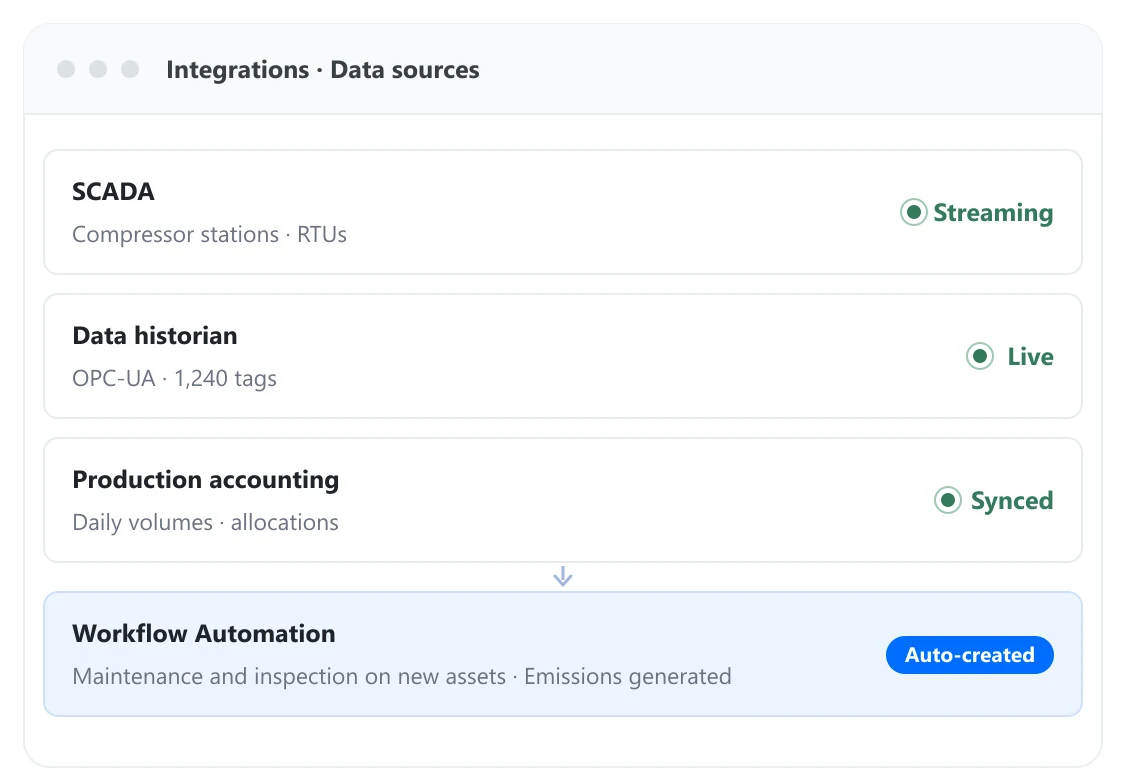
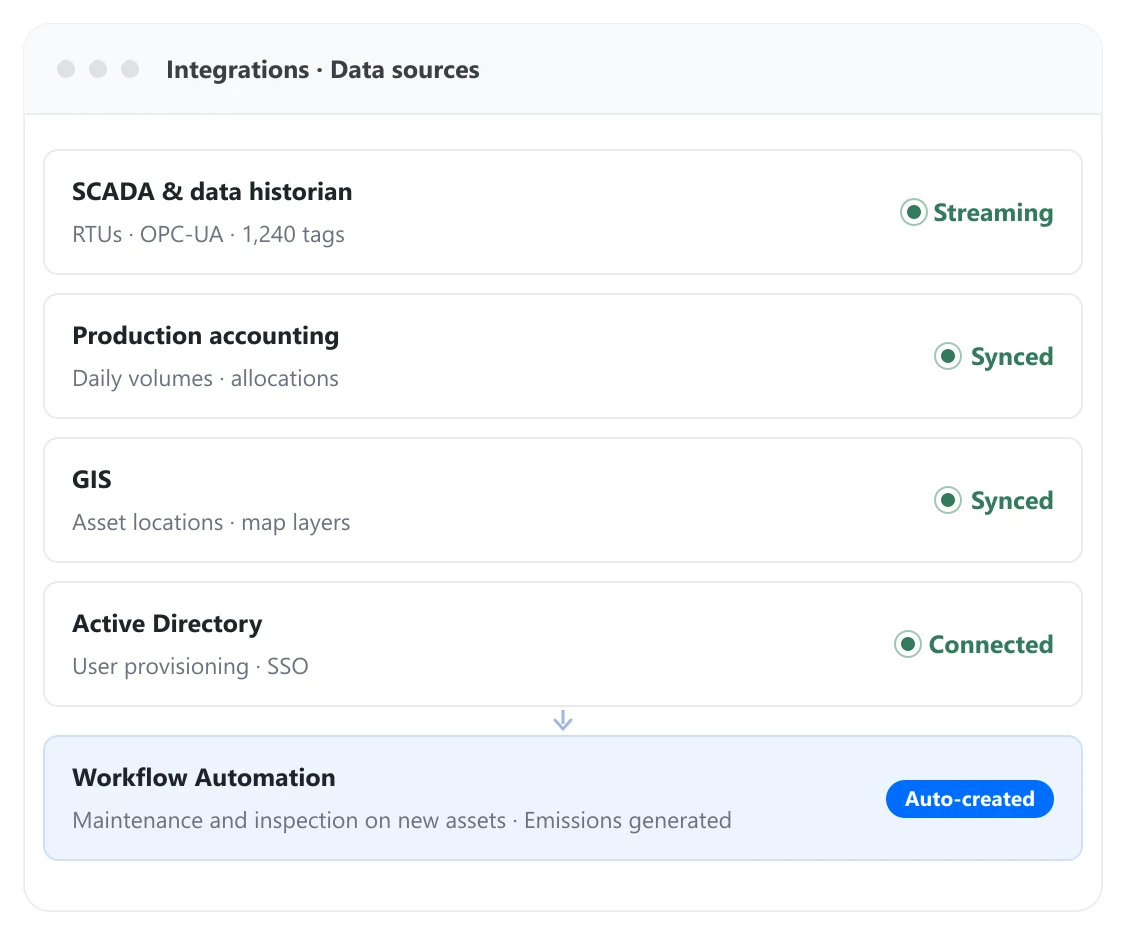
Home: finding panel, interoperability headline, price cards
- "Follow one finding" becomes a white switcher panel after the Sandstone
  services panel: the statement and four steps in a light card on the left,
  the step screens on the right; clicking or pointing at a step swaps them
- Integrations: "Data interoperability with enterprise architecture."; the
  panel combines SCADA and the data historian and adds GIS and Active
  Directory (provisioning and SSO), with the card text to match
- Pricing teaser: tall white price cards on a light gray section, prices
  bold in the top left, two-sentence lines, and a shorter three-sentence
  title that carries what every plan includes

diff --git a/src/static/css/main.css b/src/static/css/main.css
@@ -1484,12 +1484,6 @@ main { background: var(--color-bg); overflow: hidden; overflow: clip; }  /* clip
   .bento-card-text { padding: var(--space-4); }
   .bento-card-shot { border-top: 0; border-left: 1px solid var(--color-border); padding: var(--space-4); }
 }
-/* Steps (home "Follow one finding"): a numbered kicker over each card's title, and drawn panels on their own white
-   canvas, padded like .bento-card-shot */
-.bento-kicker { margin: 0 0 var(--space-1); font-size: var(--text-small); font-weight: 600; letter-spacing: 0.08em; text-transform: uppercase; color: var(--color-accent-text); }
-.bento-card-media--shot { padding: var(--space-3); object-fit: contain; }
-@media (min-width: 48rem) { .bento-card-media--shot { height: 22rem; } }  /* side by side, both panels get one height */
-.bento--steps .bento-card-shot { max-height: 26rem; object-fit: contain; }  /* near the panels' own size, not stretched to the card */
 
 /* Feature runs (/ldar): each point is one paragraph, a bold title running into a softer explanation,
    under a short amber tick. --stack puts them in one column. */
@@ -1552,6 +1546,17 @@ main { background: var(--color-bg); overflow: hidden; overflow: clip; }  /* clip
 .stat-row--stack { grid-template-columns: minmax(0, 1fr); gap: 0; margin: 0; }
 .stat-row--stack li { padding: var(--space-3) 0; border-left: 0; border-top: 1px solid var(--color-border); }
 .stat-row--stack li:first-child { padding-top: 0; border-top: 0; }
+/* Price cards (home pricing teaser): tall white cards on a light gray section, the price large in the top left
+   with its term small in the top right, and the plan name and its line at the foot */
+.price-cards { list-style: none; margin: 0 0 var(--space-4); padding: 0; display: grid; gap: var(--space-2); }
+@media (min-width: 48rem) { .price-cards { grid-template-columns: repeat(3, minmax(0, 1fr)); } }
+.price-card { display: flex; flex-direction: column; min-height: 18rem; padding: var(--space-4) var(--space-4) var(--space-4); border-radius: var(--radius-lg); background: var(--color-bg); }
+.price-card-top { display: flex; align-items: baseline; justify-content: space-between; gap: var(--space-2); margin-bottom: auto; padding-bottom: var(--space-5); }
+.price-card .price-card-figure { margin: 0; font-size: var(--text-h3); font-weight: 700; line-height: 1; letter-spacing: -0.02em; color: var(--color-dark); }
+.price-card .price-card-term { margin: 0; font-size: var(--text-small); color: var(--color-muted); text-align: right; }
+.price-card-name { margin: 0 0 var(--space-1); font-size: var(--text-h4); }
+.price-card p:last-child { margin: 0; line-height: 1.5; color: var(--color-muted); }
+@media (min-width: 48rem) { .price-card p:last-child { min-height: calc(3 * 1.5em); } }  /* side by side, every line gets three lines' room so the plan names align */
 
 /* Story panel (/ldar): a client quote on a navy card beside the numbers it stands behind */
 .story { display: grid; gap: var(--space-4); }
@@ -1662,6 +1667,30 @@ button.tour-step:hover { background: var(--color-section-alt); }
 .stepper:not(.is-ready) .stepper-media, .stepper:not(.is-ready) .stepper-item::before { transition: none !important; }  /* none on first paint */
 .stepper.is-live .stepper-media.is-active { opacity: 1; visibility: visible; transform: none; transition: opacity 0.4s var(--ease), transform 0.6s var(--ease), visibility 0s; }
 .stepper-media img { max-width: 34rem; height: auto; }
+/* Panel (home "Follow one finding", after the Sandstone services panel): one white rounded panel with a hairline
+   border, a light card standing inside its left edge with the statement on top, the steps as a hairline list in
+   the middle (the open one dark, the rest muted) and the open step's line at its foot, and the stage on white to
+   its right. Without JS the lines sit under their steps and every screen shows. */
+.stepper--panel { position: relative; isolation: isolate; gap: var(--space-2); margin-top: 0; padding: var(--space-2); overflow: hidden; border: 1px solid var(--color-border); border-radius: var(--radius-lg); background: var(--color-bg); }
+.stepper--panel .stepper-stage { padding: var(--space-4) var(--space-2); border: 0; border-radius: 0; background: none; }
+.stepper--panel .stepper-media img { max-width: 32rem; }
+.stepper-card { position: relative; display: flex; flex-direction: column; gap: var(--space-4); padding: var(--space-4) var(--space-3); border-radius: var(--radius); background: var(--color-section-alt); }
+.stepper-statement { margin: 0; font-size: var(--text-h3); font-weight: 700; line-height: 1.2; letter-spacing: -0.015em; color: var(--color-dark); }
+.stepper-statement span { font-weight: 600; color: var(--color-muted); }
+.stepper--panel .stepper-list { margin-top: auto; border-top: 1px solid var(--color-border); }
+.stepper--panel .stepper-item { padding: var(--space-2) 0; border-left: 0; border-bottom: 1px solid var(--color-border); }
+.stepper--panel .stepper-item::before { content: none; }
+.stepper--panel .stepper-title { font-size: var(--text-lead); font-weight: 600; }
+.stepper-num { margin-right: var(--space-1); font-size: var(--text-small); font-variant-numeric: tabular-nums; color: var(--color-accent-text); }
+.stepper--panel.is-live .stepper-card { padding-bottom: calc(var(--space-4) + 5.5rem); }  /* room for the open step's line */
+.stepper--panel.is-live .stepper-item { position: static; }
+.stepper--panel.is-live .stepper-body { position: absolute; left: var(--space-3); right: var(--space-3); bottom: var(--space-4); padding: 0; color: var(--color-muted); }
+@media (min-width: 64rem) {
+  .stepper--panel { grid-template-columns: minmax(0, 1fr) minmax(0, 1.35fr); align-items: stretch; min-height: 36rem; }
+  .stepper-card { padding: var(--space-5) var(--space-4); }
+  .stepper--panel.is-live .stepper-card { padding-bottom: calc(var(--space-5) + 5.5rem); }
+  .stepper--panel.is-live .stepper-body { left: var(--space-4); right: var(--space-4); bottom: var(--space-5); }
+}
 
 
 /* A row of module links under a home section (the security band) */

diff --git a/src/static/js/stepper.js b/src/static/js/stepper.js
@@ -1,7 +1,9 @@
 /* Step switcher: turns each .stepper block into steps beside one stage. Each .stepper-title becomes a button
-   that opens its step and shows its screen (.stepper-media, in the same order) on the stage. Loaded only on
-   pages with `stepper: true` (currently /ldar). Without JS every step and screen shows, stacked. */
+   that opens its step and shows its screen (.stepper-media, in the same order) on the stage; in a .stepper--panel,
+   pointing at a step opens it too, where the device can hover. Loaded only on pages with `stepper: true`
+   (currently home). Without JS every step and screen shows, stacked. */
 (function () {
+  var hover = window.matchMedia("(hover: hover) and (pointer: fine)").matches;
   [].forEach.call(document.querySelectorAll(".stepper"), function (root, r) {
     var steps = [].slice.call(root.querySelectorAll(".stepper-item"));
     var media = [].slice.call(root.querySelectorAll(".stepper-media"));
@@ -17,6 +19,7 @@
       body.id = body.id || "stepper-" + r + "-body-" + i;
       button.setAttribute("aria-controls", body.id);
       button.addEventListener("click", function () { show(i); });
+      if (hover && root.classList.contains("stepper--panel")) button.addEventListener("mouseenter", function () { show(i); });
       return button;
     });
 

diff --git a/CLAUDE.md b/CLAUDE.md
@@ -37,17 +37,17 @@ node tools/import-media.mjs <source> <dest> [--width 1600] [--quality 80] [--aud
 - **Front matter:** `layout: layouts/base.njk`, `title`, `description`, `permalink`. Optional: `canonicalPath`, `ogImage`, `sitemap: false`, `cta: { heading, text, button, url, second: { button, url } }` (`second` adds an outline button beside the main one), `rail: true` (loads `rail.js`), `survey: true` (loads `survey.js`), `stepper: true` (loads `stepper.js`), `compare: true` (loads `compare.js`), `tour: true` (loads `tour.js`), `flow: true` (loads `flow.js`), `pageClass` (a class on `<main>`; `page--spacious` gives fluid section spacing from the `--space-section*`, `--space-band` and `--space-head` tokens, on trial on home, `/ldar` and `/assets`).
 - **Shell:** `layouts/base.njk` (meta, OG/Twitter, Organization JSON-LD on home, GA) + `_includes/partials/`. Menus and footer, social and legal links come from `src/_data/nav.json`.
 - **Header:** from 64rem up, Industry, Programs and Platform open a full-width panel on hover/focus in pure CSS; below that, a drawer. `nav.json` holds the panel content: `intro` per menu; `blurb` plus `icon` (in `static/img/icons/`) or `image` per child.
-- **Scripts:** `static/js/menu.js` (drawer, accordions, amber bar under the hovered item, footer animation, stat count-up, `data-play-once`) is the only page script besides GA, the 404 page's inline script, the redirect pages and `static/js/rail.js` (arrows above a `.rail` card row; only on pages with `rail: true`, currently `/assets` and home) and `static/js/survey.js` (only with `survey: true`, currently `/ldar`): a diagram on `<canvas class="survey-canvas">`, inside a `.survey-panel` under the stat row, in the `--color-survey-*` tokens. One facility record branches to pads, equipment and components; pulses run out to the components, and amber dots are leak findings; when a pulse reaches one, a navy "WO" (work order) tag flashes above it. It loops, so it carries a pause button (WCAG 2.2.2), stops offscreen and in background tabs, and draws one still frame under reduced motion; brand blue only on the record node and the pulses, over a gray radial glow centered on the record; without JS the glow shows empty. `static/js/stepper.js` (only with `stepper: true`; no page uses it now, since home's "Follow one finding" became a bento) turns a `.stepper` into steps beside one stage, outlined like `.survey-panel`: each `.stepper-title` becomes a button that opens its step and shows its `.stepper-media` (same order); without JS every step and screen shows, stacked. (`.steps`, the old home numbered list, is a different component and no page uses it now.) `static/js/compare.js` (only with `compare: true`, currently `/pricing`): in the compare table, check marks draw in row by row as they scroll into view, and hovering or focusing a row tints it and marks the tier where that capability starts (its cell and column head); without JS or with reduced motion every mark shows as is. `static/js/tour.js` (only with `tour: true`, currently `/assets`): in a `.tour` panel (the product tour video beside its chapter list, outlined like `.survey-panel`), each chapter becomes a button that jumps the video to its `data-t` start time and plays it; the playing chapter gets an ice fill, its detail line and a bar that fills as it plays, and the others collapse to time and topic. `data-tour-end` on the panel is where the last chapter stops (the outro). Without JS every chapter shows in full as a plain list. The `/assets` chapter times were read from the cuts in `managing-assets.mp4`; re-time them if the video changes.
+- **Scripts:** `static/js/menu.js` (drawer, accordions, amber bar under the hovered item, footer animation, stat count-up, `data-play-once`) is the only page script besides GA, the 404 page's inline script, the redirect pages and `static/js/rail.js` (arrows above a `.rail` card row; only on pages with `rail: true`, currently `/assets` and home) and `static/js/survey.js` (only with `survey: true`, currently `/ldar`): a diagram on `<canvas class="survey-canvas">`, inside a `.survey-panel` under the stat row, in the `--color-survey-*` tokens. One facility record branches to pads, equipment and components; pulses run out to the components, and amber dots are leak findings; when a pulse reaches one, a navy "WO" (work order) tag flashes above it. It loops, so it carries a pause button (WCAG 2.2.2), stops offscreen and in background tabs, and draws one still frame under reduced motion; brand blue only on the record node and the pulses, over a gray radial glow centered on the record; without JS the glow shows empty. `static/js/stepper.js` (only with `stepper: true`, currently home, in its `.stepper--panel` form, where pointing at a step also opens it) turns a `.stepper` into steps beside one stage, outlined like `.survey-panel`: each `.stepper-title` becomes a button that opens its step and shows its `.stepper-media` (same order); without JS every step and screen shows, stacked. (`.steps`, the old home numbered list, is a different component and no page uses it now.) `static/js/compare.js` (only with `compare: true`, currently `/pricing`): in the compare table, check marks draw in row by row as they scroll into view, and hovering or focusing a row tints it and marks the tier where that capability starts (its cell and column head); without JS or with reduced motion every mark shows as is. `static/js/tour.js` (only with `tour: true`, currently `/assets`): in a `.tour` panel (the product tour video beside its chapter list, outlined like `.survey-panel`), each chapter becomes a button that jumps the video to its `data-t` start time and plays it; the playing chapter gets an ice fill, its detail line and a bar that fills as it plays, and the others collapse to time and topic. `data-tour-end` on the panel is where the last chapter stops (the outro). Without JS every chapter shows in full as a plain list. The `/assets` chapter times were read from the cuts in `managing-assets.mp4`; re-time them if the video changes.
 - **Headline runs and placeholders (`/ldar`):** `.headline-run` puts a heading and its explanation in one text block (bold statement, then a softer `<span>` at the same size), in place of a separate lead. The hero's `.hero-shots` pairs a record card image, built like the `/assets` hero image, with the Trek home screen in a phone frame (38% of the width) standing over its left side. `.mock` draws a product screen as a skeleton (one per `.bento` card except the first, a `.bento-card--split` with the real task calendar set straight on the gray card; no longer tagged "Placeholder"); replace each with a real screenshot before going live. The export card's `.mock-trend-bars` uses `data-play-once`: months rise one at a time in light blue (`--color-chart-highlight`), then dip faint and settle to light gray (`--color-chart`; the emissions card bars use the same pair); 5 s, once (keep it at 5 s or under, or it needs a pause control). Also from the Stripe-style pass: `.feature-runs` (bold title running into its explanation, under an amber tick; `--stack` for one column), `.stat-row` (numbers split by thin rules, not boxed; `--stack` for a column), `.top-cards` (Stripe's enterprise layout in the `.bento-card` look on a six-column grid; `--wide` spans four and puts its diagram in a white `.top-card-panel` above the text, `--fill` is an ice (`--color-surface`) card with navy text for a rule or quote; on `/ldar` the wide card holds `.leak-clock`, bars showing how long subpart W counts a found leak as open by survey cadence; bento and top cards are outlined like `.survey-panel`: white, a hairline border, and the drawing on the `--card-glow` gradient above one rule, with no nested panels or shadows; their sections stay white) and `.story` (client quote card beside its numbers, which are in `--color-muted`: a glass `.story-glass` panel on a `--color-dark-deep` field with an amber glow top left and a blue one bottom right, the quote set left under a small amber quote mark, an optional `<em>` phrase in amber, two faint alpha marks).
 - **Home (outline after Zapier and Samsara, in the `/ldar` and `/assets` look):** `page--spacious`, white sections, headline-run section heads, in this order:
   1. The engine hero (`.hero--engine`), no eyebrow or buttons: the engine centered on top (54rem wide at most), the H1 under it as `.hero-statement`, one statement in two voices (after a studio intro line the user gave; the original home H1, "Where operational technology meets regulatory compliance." with its rotating phrases, is gone): upright Inter 500 in white, with "every asset", "its compliance" and "the people who keep it running" in Inter's true italic, regular weight, in `--color-on-dark-muted`, at `--text-run-hero`. Its background is CSS: deep navy falling to near-black, a brand-blue spotlight under the engine, a cyan haze over the wireframe side, a deep blue glow under the headline, and the drafting grid faded to a pool around the engine. As the hero scrolls away the engine drifts down 28% and fades to 35% (a CSS scroll-driven `view()` animation, only where supported and without reduced motion; this needs `main` and the hero on `overflow: clip`, since `hidden` makes them scroll containers the timeline would track). The engine is `img/assets/hero-engine.webp` (1500 x 1012, WebP with alpha): a generated illustration of a generator set, mirrored so the machine is on the left and the blueprint wireframe on the right, with the generator's watermark cropped off, its floating dashboard panels (gibberish text) painted out, and its blue backdrop keyed out, so the CSS gradient shows around the machine and between the wireframe's lines. The cutout was made with a one-off script (not in the repo); a faint blue haze remains at the seam. An inline SVG in the image's 1800 x 1215 coordinates (`viewBox`, `xMidYMid meet`; the art box has the same aspect ratio) draws our own glass dashboard panels where those were, each linked to a point on the engine: monthly fuel use (`PGEN.FuelUse.MCF.Monthly`, the demo generator's Jun–Oct months and 280.09–327.82 band, from `/assets/telemetry`, but with August at 182.4, 60% of the others, as asked, instead of the demo's 9.66; it turns amber), a daily inspection (load and output, temperatures, pressures, checking off; illustrative), and "Actual / PTE, cumulative" for a NESHAP ZZZZ 1,500 hp engine (NOx 11.3 / 14.5, SOx 0.21 / 0.40, VOC 4.7 / 7.2 tpy: made-up actuals at 78, 52 and 65% of made-up PTE, each with a check for within limit). The script that writes the SVG isn't in the repo; edit the markup by hand. On load (CSS, once, about 3.1 s) the links draw in, the panels rise, the bars grow, August turns amber, the checks tick, the emissions fill and check off. It plays once, so it carries no pause button (the 8 s replay and the pause button were removed at the user's request; looping again would need `data-loop` back for WCAG 2.2.2). On phones the panel text hides. Under the headline, the four industry chips, as links. The bottom padding leaves room for the film, which rises into the hero.
   1a. The `.flow` film (after Zapier's product film under its hero), rising into the hero by a third of its height (`flow.js` sets `--flow-overlap` from the panel's height; `--space-overlap` without JS): a flat light gray panel (`--color-panel-gray`, a `--color-panel-line` hairline, no shadows on it or anything in it), on a light gray section (`--color-section-alt` from where the panel leaves the hero, so its top third stays over the hero), playing five chapters (six scenes) in one spot, about 61 s a loop. Most are real Demo Sandbox screens in a browser window (`.flow-window`, a 16:10 `.flow-view`; the screenshots in `img/home/flow/` are all 1504 x 940 at the app's 100% zoom, so text is the same size in each; narrower captures were extended with their edge pixels; the newer captures were at the same scale and only cropped, sidebar out): (1) Real-time data: the Foreman dashboard on a laptop (`.flow-laptop`, `img/home/flow/dashboard-laptop.webp`, the signed-in user's photo replaced with "JR" initials), a click on the Natural Gas Withdrawal chart, which opens a screen recording of that chart (`video/realtime-chart.mp4`, 1774 x 978, so its `.flow-window--chart` is 1774/1504 as wide as the others) from the moment it loads (`data-start` 1.15 s): a tooltip with the expected value, then a drag that zooms in on 2007–2011 (the anomaly report scene that followed it was removed, and with it `video/report-anomaly-detection.mp4`; it is in git history); (2) Compliance: the first page of an EPA Region 8 Title V permit (`permit-title-v.webp`, set on the app's gray; the operator and station lines, Wind River Resources Corporation and North Hill Creek Compressor Station, aren't clients, so they are replaced with a made-up facility, Elm Ridge Refinery, Meeker County, Colorado, set in the permit's bold serif, with the location block below to match: Piceance Basin, SW ¼ SE ¼ Section 3, T1N, R94W, Meeker County, Colorado), then a split screen: the Elm Ridge Refinery compliance item (`compliance-item.webp`, 1504 x 1457, a taller `.flow-page` in a `.flow-split`; the signed-in user's photo replaced with "JR" initials) slides in from the right to cover two thirds of the window while the PDF (`.flow-doc`) shifts left to keep its EPA header in view, the record scrolls down to its requirements, the cursor clicks I.A.1. Condensate tank batteries eligibility, and the requirement (`compliance-requirement.webp`, 1504 x 1499) fades in over it and scrolls down to its limit (a rolling 12-month VOC total of at most 4.20 ton/yr). Both scrolls ease in and out over 2 s (`--ease-in-out`). In the split the record page is the window's full width from a third of the way in, so a point at x px on it is at 33.33% + x/1504 of the window; (3) People: My Tasks filtered to Open and Roberts, Jane (`my-tasks.webp`), a click on the Elm-02 LDAR work order, its record (`task-ldar.webp`), then, with the record staying in place behind it, that work order in Trek on an iPad slides in over the record's right side (`trek-task-ipad.webp`, the Trek screen in a bezel drawn by a one-off script, 900 x 1206 with alpha), lines draw from the record's Status and Leak Repair Form rows to the same fields on the iPad, and a caption reads "Dispatch task to assignee for offline completion." (under the window on phones). `.flow-dispatch-layer` sits exactly over the window's 16:10 view, so the iPad (x 900, y -50, 746 x 1000) and the line ends are in the record's own 1504 x 940 pixels; `.flow-dispatch` leaves room for the 142 px the iPad stands past the window; (4) Find the asset: "elm" typed into asset search (`.flow-typed`, a white patch over the word already in the screenshot; this capture was at about 77% zoom, so it is scaled up 1.3x and kept as a taller `.flow-page` that scrolls down to the Search button at `data-shift-at`, by its `--shift`), Search, the Elm-02 list, a click on Elm-02 #02-01H, its record; (5) Fill the form: Create Form, a click opens the Inspections category, a click on + opens Compressor Inspection - Daily (inspector Coll, Steve, a demo user), which ends the loop. The Plan the work (task calendar) and Work offline (Trek phone) chapters were removed, with their images; they are in git history. Chapter buttons under the scenes mark the playing chapter and jump to any of them (on phones, one swipeable row); each button's `data-chapter` is the index of its chapter's first scene, so a chapter can span several scenes. `static/js/flow.js` (`flow: true`) reads all timing from the markup in milliseconds from the loop start: `data-at` shows an element, `data-off` hides it, a `.flow-pointer`'s `data-path` lists "ms:x,y" stops in % of the window ("!" clicks, with a ring), `.flow-typed` types `data-type` from `data-type-at`, `video.flow-video` plays at `data-rate` from its `data-at` (from `data-start` seconds into the clip), and `data-hold` / `data-cycle` on the panel fade and restart the loop. To retime a scene, edit only the markup. It carries `data-loop` (pause button lower right) and stands still, video included, while paused, offscreen or in a background tab. Without JS or with reduced motion only the `.is-poster` scene shows, on its last screen (the Elm-02 record), with no cursor or chapters; where scripts can run (CSS `scripting: enabled`) the stage stays hidden until `flow.js` starts, and transitions switch on a frame later (`.is-ready`), so nothing flashes. New screenshots: capture at 100% zoom, crop or extend to 1504 x 940 with the target in view, then read each target's x,y as % of the crop.
   2. A proof band (`.section--proof`, with more room above it; `.proof-head`, `.proof-logos`, `.proof-photo`, after Stripe's enterprise block): "Proven where the work happens." alone (its "Reported by clients…" line was cut), the five client logos in one row on white, a wide field photo (`img/spcc/berm-inspection.webp`, 21:9, 4:3 on phones) with a phone (`img/home/spcc-inspection-phone.webp`, an SPCC Annual Inspection form at the A100 Tank Battery; Doe, Jamie is demo data) rising from its bottom edge on the right, then `.proof-stats`: three client numbers in one row, Stripe-style (the figure bold in navy running into its label in gray, the client under it; they don't count up: `data-count="off"` on the list), one per industry (Laramie Energy, 437th MXS, Water Mission).
   3. The key features as one `.rail--story` carousel, the same component as the `/assets` "Follow the record deeper" cards: nine abstract CSS art tiles (the `.rail-card-media--<topic>` variants, each with the feature's Platform menu icon glowing white and its name in the lower left), then one line and a "See <module>" link, in order of importance to a buyer: Asset registry (Unified Asset Intelligence), Compliance, Smart Forms & Tasks, Workflow Automation, Trek mobile app, Emissions, Reporting, Telemetry, AI Assistants (Security has its own band). The lines are the Platform menu blurbs from `nav.json`, except AI Assistants, Compliance, Emissions and Reporting, which have their own wording on home. No eyebrows. On every story rail the line and link under a tile are inset to start where the name inside it does. The product screens that sat here are kept for later in `img/home/`: `capture-tablet-record.webp` (the Elm-02 Separator record on a tablet) and `capture-devices.webp` (phone, laptop and tablet); the Act and Report screens were `assets/hero-asset-record-screen.webp` and `compliance/electronic-submissions.webp`. The two concrete AI lines live here: anomaly flags on telemetry (Act) and the assistant that shows what it read (Report).
-  4. "Follow one finding": a `.bento--steps` in the `/ldar` bento look, walking a leak at Skid A-114 through four drawn panels that share that asset, each card under a numbered `.bento-kicker` (01 · Found, 02 · Routed, 03 · Recorded, 04 · Mapped): the form as a full split card, the workflow (wide) beside one data model, then requirement mapping as a full split card. The panels sit on their own white canvas at about their native size (`.bento-card-media--shot`, 22rem tall side by side; split shots at most 26rem). It replaced a `.stepper`.
-  5. Integrations: "Connects to what's already running." with SCADA, data historians, and production accounting feeding the record with automated workflows; one `.bento-card--split` with its own drawn panel (`img/home/integrations-sources.webp`, 1126 x 783, drawn by a one-off script in the style of the `/platform` integrations panel): SCADA, a data historian over OPC-UA, and production accounting, each live, then Workflow Automation: maintenance and inspection on new assets, emissions generated. The card text matches ("From live data to scheduled work"). The 1,240 tags figure is illustrative, carried over from the `/platform` panel.
+  4. "Follow one finding": a `.stepper--panel` (after the Lexington Sandstone services panel): one white rounded panel with a hairline border, a light card on the left with the statement (the section head, moved into the card as `.stepper-statement`), the four steps as a hairline list (`.stepper-num` 01–04; the open one dark, the rest muted), and the open step's line at the card's foot, and the step screens on white on the right (below the card on phones). Clicking a step, or pointing at it where the device can hover, swaps the screen (form, workflow, one data model, requirement mapping, all sharing Skid A-114). It replaced a bento of the same four steps, which had replaced a plain `.stepper`.
+  5. Integrations: "Connects to what's already running. Data interoperability with enterprise architecture."; one `.bento-card--split` with its own drawn panel (`img/home/integrations-sources.webp`, 1126 x 927, drawn by a one-off script in the style of the `/platform` integrations panel): SCADA & data historian (RTUs, OPC-UA), production accounting, GIS, and Active Directory (user provisioning, SSO), then Workflow Automation: maintenance and inspection on new assets, emissions generated. The card text matches ("From live data to scheduled work"). The 1,240 tags figure is illustrative, carried over from the `/platform` panel.
   6. A story carousel (`.rail--stories`, one `.story` per slide; its stat rows don't count up, since slides scroll in sideways; the glass blur is off inside the track, where Chromium painted it over the quote text).
-  7. A pricing teaser: "Start free. The record is never the upsell.", the three tiers in a `.stat-row` (`data-count="off"`: $0 Standard, $60 Professional, $90 Enterprise, per user a month), the every-plan line (offline capture, encryption and role-based access, open-format export) and "See pricing" / "See security" links. Every figure and line comes from `/pricing`; keep them in step. It replaced a navy security band, which now lives on `/security` (without its "See security" link), between "Zero-Trust, not perimeter trust." and the six layers.
+  7. A pricing teaser: "The record is never the upsell.", with what every plan includes (full data model, audit trail, offline capture, encryption, open-format export) in its two short follow-on sentences, on a light gray `.section--surface`, the three tiers as tall white `.price-cards` (after the Sandstone process cards: the price bold in the top left, its term small in the top right, the plan name and its line at the foot: $0 Standard forever, $60 Professional and $90 Enterprise per user a month), and "See pricing" / "See security" links. Every figure and line comes from `/pricing`; keep them in step. It replaced a navy security band, which now lives on `/security` (without its "See security" link), between "Zero-Trust, not perimeter trust." and the six layers.
   8. The closing partial with `cta.second` ("See the platform").
 
   The home video (`platform-features.mp4`, still on `/platform`), the "Siloed software" section, the AI steps list and the industries photo cards ("Purpose-built for the most demanding operations."; the hero chips still link to each industry page) were cut. `.rail-track` is `position: relative` so the count-up's hidden copy can't widen the page.
@@ -140,6 +140,7 @@ The preview's `robots.txt` isn't at a domain root, so crawlers ignore it; the pa
 - Legal review of `/privacy` (dated July 24, 2017; keep its wording until then).
 - Contact form: send one test from the preview and confirm it reaches sales@assetas.com.
 - `/assets` hub: confirm historical location tracking (the "Asset location" carousel card) before going live. Confirm "parent/child/flow associations" (the tour video shows only a generic "is associated with" link) and that the regulation tags (EPA 40 CFR 60, 80, 98, 112; EU 2024/1787) are ones Assetas can map today. "No Operational Excellence without an asset" keeps its capitals as requested, against the sentence-case rule; confirm.
+- Home integrations panel: confirm before going live that Assetas syncs with GIS (asset locations, map layers) and provisions users from Active Directory / Entra ID (SCIM or similar) beside SSO; `/security` names Entra ID single sign-on but not provisioning.
 - `/assets` "Start from the records you have": confirm before going live that bulk import takes spreadsheets and exports from other systems and maps them to the per-type attributes, and that a Trek inventory walkdown checks assets against their records with photos and GPS. Add formats, limits, and a template once known (see the build spec items below).
 - `/assets` child pages: confirm before going live — that Assetas can report runtime beside book value to find under-used assets (the `/assets/operations` utilization panel is a drawn skeleton; replace it with a real report), which depreciation methods ship besides declining balance, and the regulatory lines on `/assets/compliance` (SPCC applies over 1,320 gallons of aboveground oil storage, 40 CFR 112.1; 40 CFR 98 for fuel-use emissions; subpart W from LDAR open days). The demo diesel tank's GHG and Colorado calculation groups come from the video; the generator's fuel use is in mcf, so don't claim the tank fuels it.
 - `/assets` build spec items not built yet, each waiting on product facts: an asset-class coverage table (native, configurable, or not supported), the offline spec (cache, conflicts, sync order), an architecture, integrations & security page (Azure region, SSO, API docs, attestations), import limits and template, the reference data library contents, and the position on each standard ("aligned to" is the current wording). Also suggested there: in-page "Jump to" anchors, a scannable QR on the demo record, and promoting Assets above the other Platform menu items (nav groups are decided; ask first).
